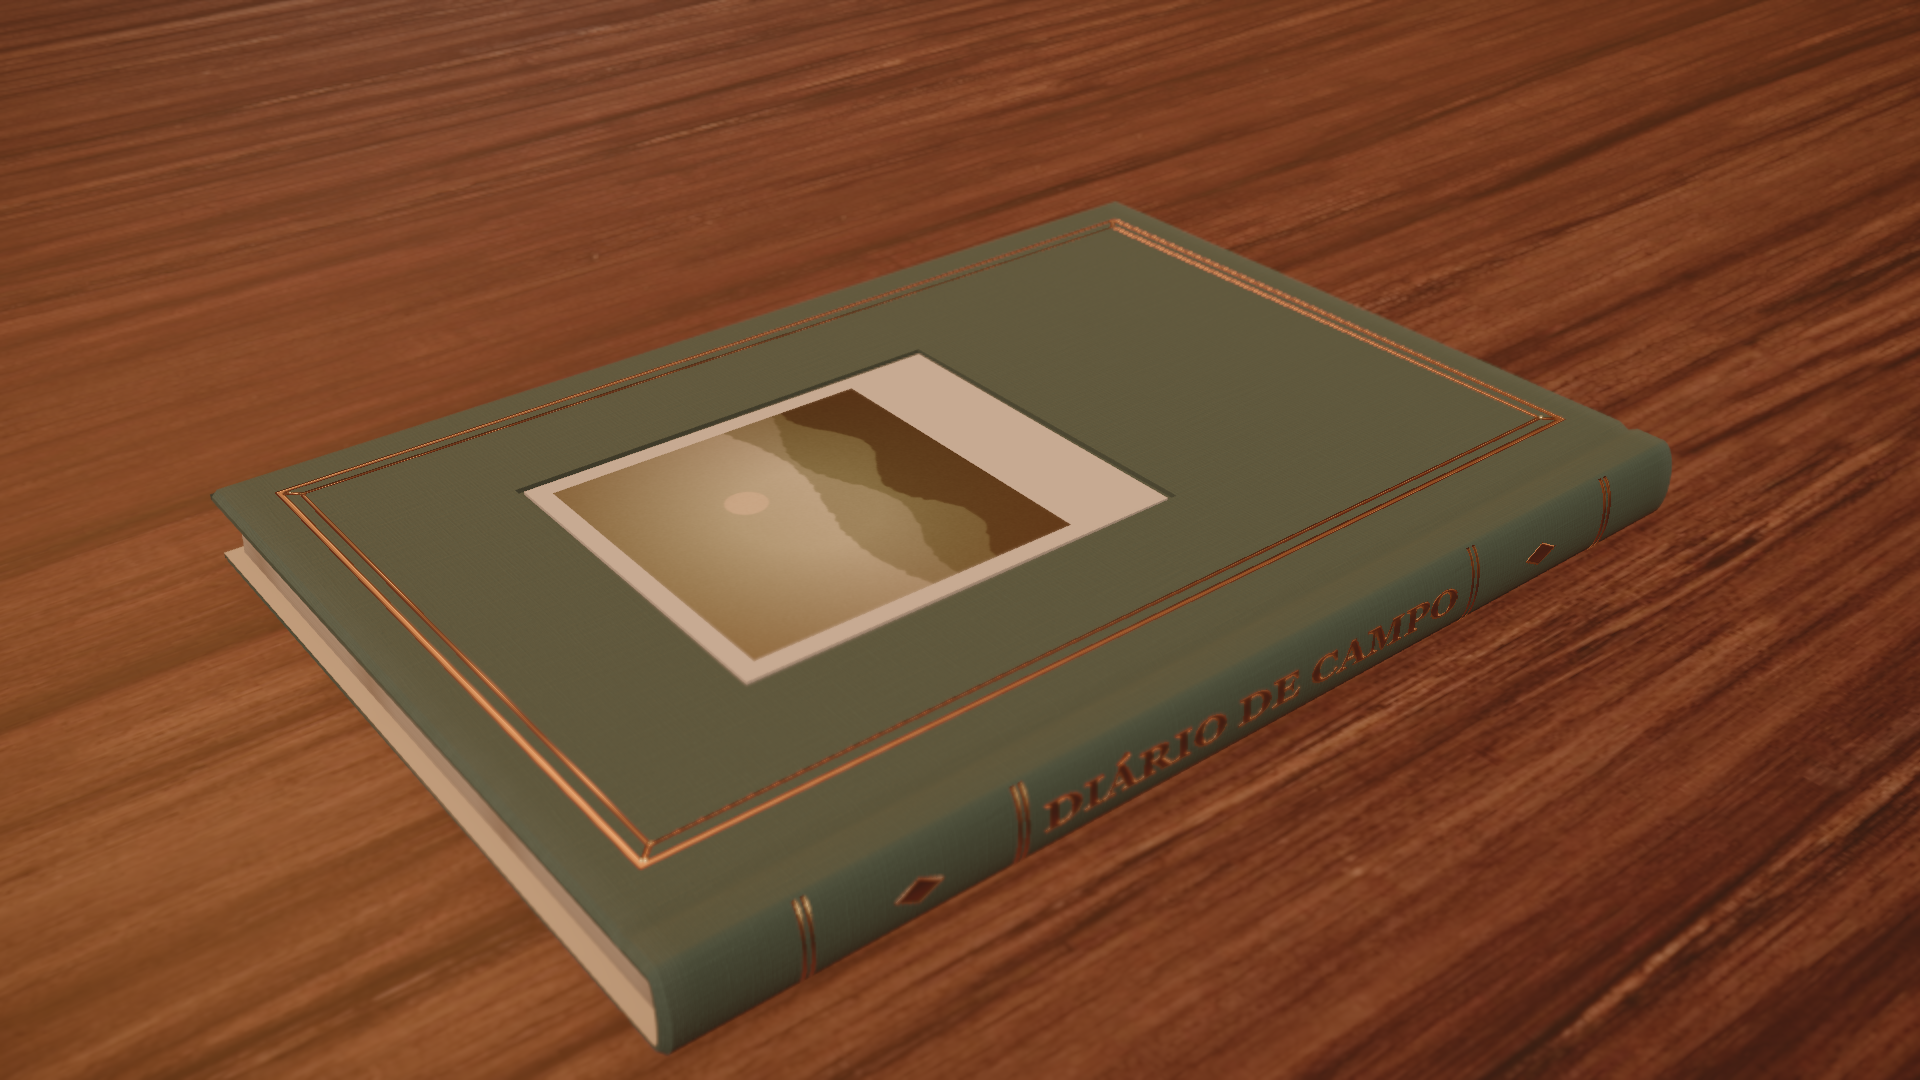
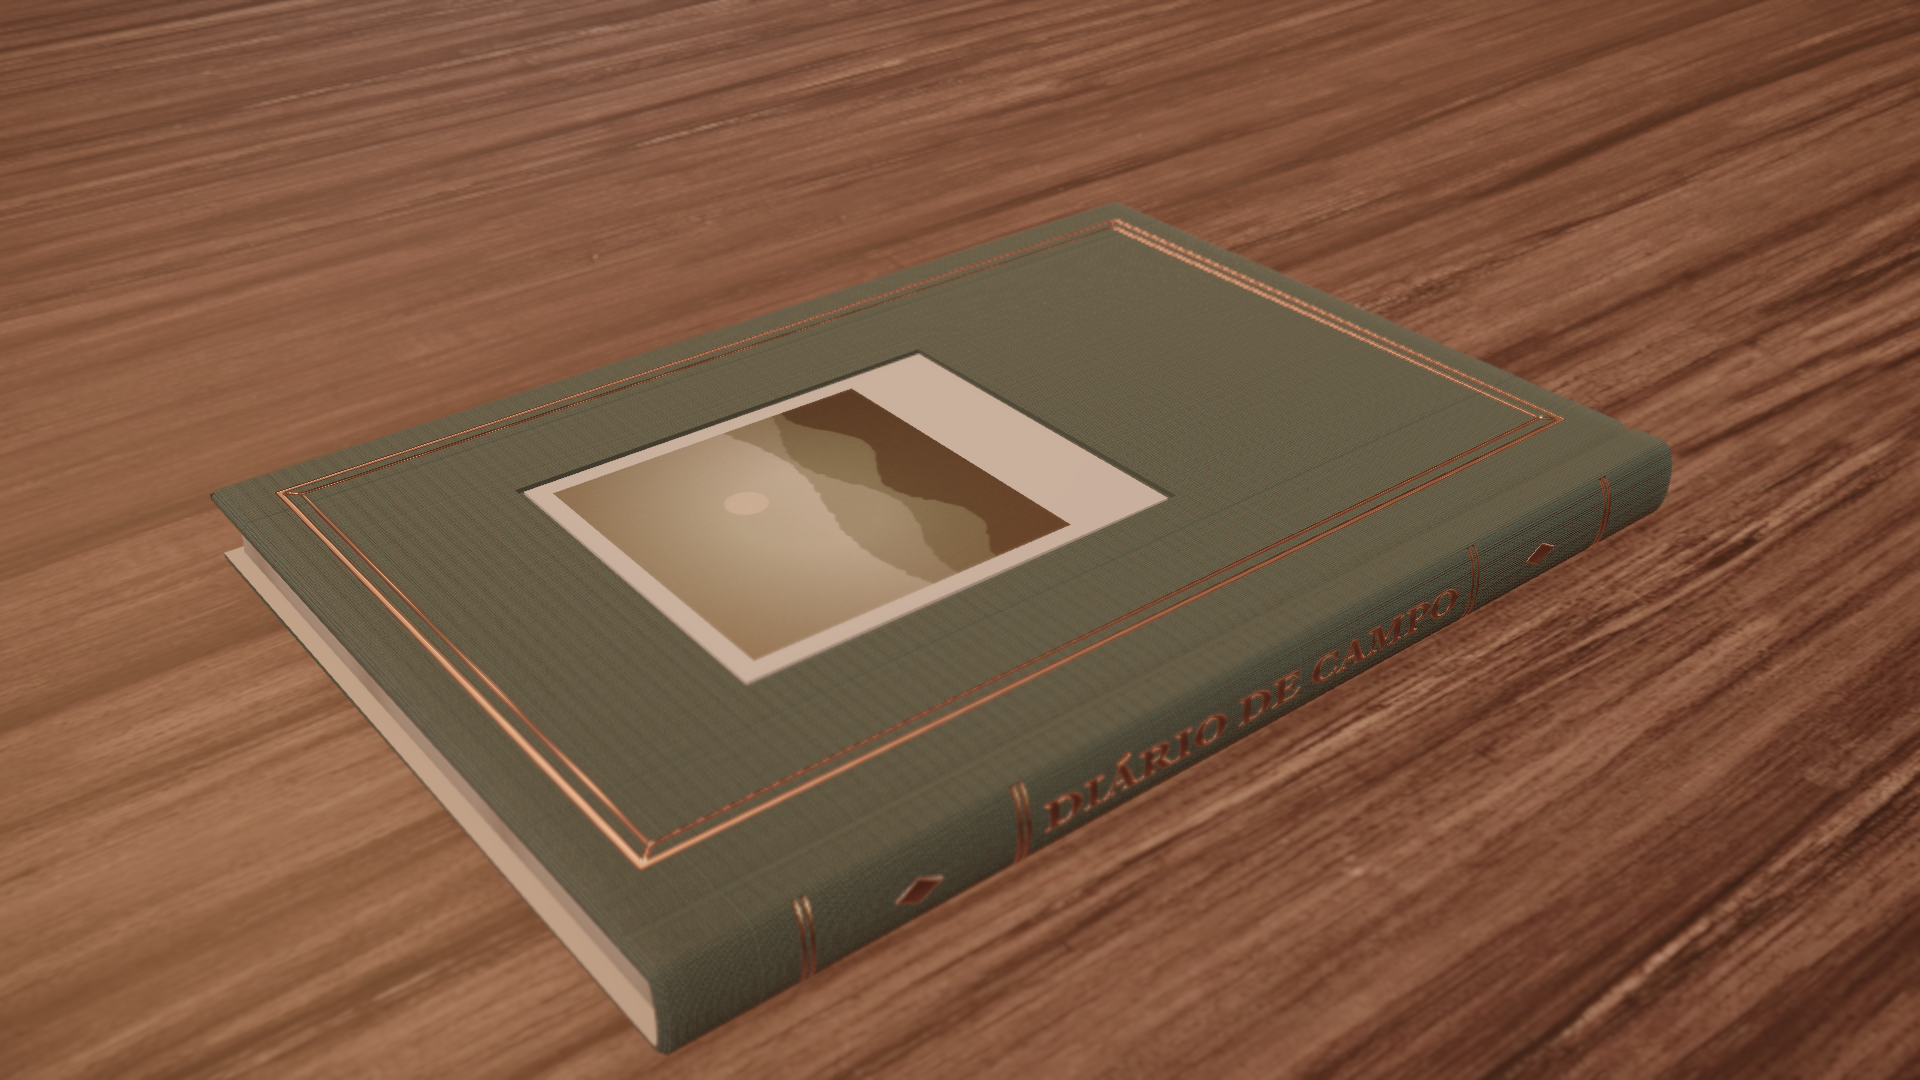
livro: trama de tecido procedural; lustre com velas quentes; lint

diff --git a/src/book/Book.tsx b/src/book/Book.tsx
@@ -2,6 +2,7 @@ import { useTexture } from '@react-three/drei'
 import { useEffect, useMemo, useState } from 'react'
 import { Vector2, type Texture } from 'three'
 import {
+  clothWeaveHeight,
   frontFoilMask,
   maskTexture,
   normalFromMask,
@@ -42,28 +43,26 @@ const TEX = '/textures/book'
 
 /** Photo for the polaroid: the user's Blob, or a generated sample for the fixtures. */
 function usePhoto(book: BookProps['book']): Texture | null {
-  const [tex, setTex] = useState<Texture | null>(null)
+  // generated sample photos are synchronous; a user's Blob is decoded asynchronously
+  const sample = useMemo(() => (book.photoSeed !== undefined && !book.coverPhoto ? photoTexture(samplePhoto(book.photoSeed)) : null), [book.photoSeed, book.coverPhoto])
+  const [decoded, setDecoded] = useState<Texture | null>(null)
   useEffect(() => {
+    if (!book.coverPhoto) return
     let alive = true
     let made: Texture | null = null
-    if (book.coverPhoto) {
-      void createImageBitmap(book.coverPhoto).then((bmp) => {
-        if (!alive) return
-        made = photoTexture(bmp)
-        setTex(made)
-      })
-    } else if (book.photoSeed !== undefined) {
-      made = photoTexture(samplePhoto(book.photoSeed))
-      setTex(made)
-    } else {
-      setTex(null)
-    }
+    void createImageBitmap(book.coverPhoto).then((bmp) => {
+      if (!alive) return
+      made = photoTexture(bmp)
+      setDecoded(made)
+    })
     return () => {
       alive = false
       made?.dispose()
+      setDecoded(null)
     }
-  }, [book.coverPhoto, book.photoSeed])
-  return tex
+  }, [book.coverPhoto])
+  useEffect(() => () => sample?.dispose(), [sample])
+  return book.coverPhoto ? decoded : sample
 }
 
 /**
@@ -103,7 +102,14 @@ export function Book({ book, position = [0, 0, 0], rotation = [0, 0, 0] }: BookP
     const edge = pageEdgeTexture()
     edge.repeat.set(1, 1)
     return {
-      cover: coverMaterial(book.coverMaterial, book.color, { lum, normal, arm }, wear, new Vector2(1 / maxU, 1 / d.coverHeight)),
+      cover: coverMaterial(
+        book.coverMaterial,
+        book.color,
+        { lum, normal, arm },
+        wear,
+        new Vector2(1 / maxU, 1 / d.coverHeight),
+        book.coverMaterial === 'cloth' ? normalFromMask(clothWeaveHeight(0.11), 1.5) : undefined,
+      ),
       endpaper: endpaperMaterial(paper),
       pageEdge: pageEdgeMaterial(edge),
       pageSide: pageSideMaterial(paper),

diff --git a/src/book/canvasTextures.ts b/src/book/canvasTextures.ts
@@ -118,6 +118,40 @@ export function frontFoilMask(widthM: number, heightM: number): HTMLCanvasElemen
   return c
 }
 
+/**
+ * Bookcloth (buckram) weave as a height map: over/under threads of ~0.4 mm across a tile of `tileM` meters,
+ * with slight irregularity. Returns the height canvas; normalFromMask turns it into a normal map.
+ */
+export function clothWeaveHeight(tileM: number, seed = 5): HTMLCanvasElement {
+  const N = 1024
+  const threads = Math.round(tileM / 0.0004)
+  const { c, ctx } = canvas(N, N)
+  const img = ctx.createImageData(N, N)
+  const r = rand(seed)
+  const jitterX = Array.from({ length: threads }, () => 0.85 + r() * 0.3)
+  const jitterY = Array.from({ length: threads }, () => 0.85 + r() * 0.3)
+  for (let y = 0; y < N; y++) {
+    for (let x = 0; x < N; x++) {
+      const u = (x / N) * threads
+      const v = (y / N) * threads
+      const iu = Math.floor(u)
+      const iv = Math.floor(v)
+      const fu = u - iu
+      const fv = v - iv
+      // warp over weft on a checkerboard, each thread a rounded ridge
+      const overWarp = (iu + iv) % 2 === 0
+      const warp = Math.sin(Math.PI * fu) * jitterX[iu % threads]
+      const weft = Math.sin(Math.PI * fv) * jitterY[iv % threads]
+      const h = overWarp ? 0.55 * warp + 0.45 * warp * weft : 0.55 * weft + 0.45 * warp * weft
+      const i = (y * N + x) * 4
+      img.data[i] = img.data[i + 1] = img.data[i + 2] = 255
+      img.data[i + 3] = Math.round(Math.min(1, Math.max(0, h)) * 255)
+    }
+  }
+  ctx.putImageData(img, 0, 0)
+  return c
+}
+
 export function maskTexture(mask: HTMLCanvasElement): Texture {
   return texture(mask, false)
 }

diff --git a/src/scene/RoomExtras.tsx b/src/scene/RoomExtras.tsx
@@ -1,5 +1,5 @@
 import { useLayoutEffect } from 'react'
-import { Color, MeshBasicMaterial, MeshPhysicalMaterial, type Mesh, type Texture } from 'three'
+import { Color, MeshBasicMaterial, MeshPhysicalMaterial, type Mesh, type Object3D, type Texture } from 'three'
 import { room } from '../config/room'
 
 const matName = (m: Mesh) => (Array.isArray(m.material) ? m.material[0]?.name : m.material?.name) ?? ''
@@ -40,6 +40,19 @@ export function WindowGlass({ meshes, envMap }: { meshes: Mesh[]; envMap: Textur
     }
     return () => mat.dispose()
   }, [meshes, envMap])
+  return null
+}
+
+/** The chandelier's candle bulbs (Chandelier_03 glass): lit, warm emitters instead of sky-reflecting glass. */
+export function CandleBulbs({ root }: { root: Object3D }) {
+  useLayoutEffect(() => {
+    const mat = new MeshBasicMaterial({ color: new Color(room.lighting.chandelier.colorHex).lerp(new Color('#ffffff'), 0.35).multiplyScalar(2.4) })
+    root.traverse((o) => {
+      const m = o as Mesh
+      if (m.isMesh && /^Chandelier_03_glass/i.test(matName(m))) m.material = mat
+    })
+    return () => mat.dispose()
+  }, [root])
   return null
 }
 

diff --git a/src/book/BookDevScene.tsx b/src/book/BookDevScene.tsx
@@ -2,7 +2,7 @@ import { OrbitControls, useTexture } from '@react-three/drei'
 import { Canvas, useThree } from '@react-three/fiber'
 import { Bloom, DepthOfField, EffectComposer, N8AO, ToneMapping, Vignette } from '@react-three/postprocessing'
 import { ToneMappingMode } from 'postprocessing'
-import { lazy, Suspense, use, useLayoutEffect, useMemo, useState } from 'react'
+import { lazy, Suspense, use, useLayoutEffect, useState } from 'react'
 import { EquirectangularReflectionMapping, NoToneMapping, PMREMGenerator, RepeatWrapping, SRGBColorSpace, type Texture } from 'three'
 import { HDRLoader } from 'three/examples/jsm/loaders/HDRLoader.js'
 import { params } from '../app/params'
@@ -56,7 +56,7 @@ function Environment() {
 
 function Table() {
   const [map, normalMap, arm] = useTexture(['/textures/book/table_color.jpg', '/textures/book/table_normal.jpg', '/textures/book/table_arm.jpg'])
-  useMemo(() => {
+  useLayoutEffect(() => {
     for (const t of [map, normalMap, arm]) {
       t.wrapS = t.wrapT = RepeatWrapping
       t.repeat.set(3.2, 2.2)

diff --git a/src/book/materials.ts b/src/book/materials.ts
@@ -41,6 +41,7 @@ export function coverMaterial(
   tex: CoverTextures,
   wear: Texture,
   wearScale: Vector2,
+  weaveNormal?: Texture,
 ): MeshPhysicalMaterial {
   const tile = TILE[kind]
   const mat = new MeshPhysicalMaterial({
@@ -61,6 +62,11 @@ export function coverMaterial(
     mat.sheenRoughness = 0.7
     mat.sheenColor = new Color(SPINE_COLORS[color]).multiplyScalar(1.6)
     mat.normalScale.set(1.2, 1.2)
+    if (weaveNormal) {
+      // real bookcloth weave (procedural) instead of the curtain linen's coarse normal
+      mat.normalMap = prepare(weaveNormal, tile)
+      mat.normalScale.set(0.9, 0.9)
+    }
   }
   mat.onBeforeCompile = (shader: WebGLProgramParametersWithUniforms) => {
     shader.uniforms.wearMap = { value: wear }

diff --git a/src/scene/Room.tsx b/src/scene/Room.tsx
@@ -9,7 +9,7 @@ import { applyLightmaps, loadAtlasTexture, loadManifest, type LightmapManifest }
 import { PlaceholderRoom } from './PlaceholderRoom'
 import { FloorReflection } from './FloorReflection'
 import { invalidateShadows } from './shadows'
-import { FloorJoints, Flames, WindowGlass } from './RoomExtras'
+import { CandleBulbs, FloorJoints, Flames, WindowGlass } from './RoomExtras'
 
 interface RoomAssets {
   manifest: LightmapManifest
@@ -73,6 +73,7 @@ function BakedRoom({ assets }: { assets: RoomAssets }) {
       <WindowGlass meshes={unbaked} envMap={envMap} />
       <Flames meshes={unbaked} />
       <FloorJoints meshes={unbaked} />
+      <CandleBulbs root={room} />
       {reflect && <FloorReflection root={room} />}
     </>
   )

diff --git a/docs/noite/relatorio.md b/docs/noite/relatorio.md
@@ -1,0 +1,62 @@
+# Relatório da noite 01 — 15/10/2026
+
+Início: 00:02 (relógio da máquina). Branch `noite-01`, sem push.
+
+## Resumo
+
+1. **Pipeline completo e automático:** Blender 5.2 (GPU OptiX, RTX 4060) monta a sala, a estante, os props e as cortinas (simulação de tecido), assa os lightmaps, faz o denoise, exporta e otimiza para o navegador com um comando (`npm run pipeline -- --quality draft|final`, ~3 min em draft).
+2. **Sala no navegador:** lightmaps RGBM, reflexo planar borrado das janelas no piso, quadriculado do sol, feixes e poeira, props em PBR com sombra, AgX. Cerca de 105 draw calls no N0, dentro do orçamento.
+3. **Look dev:** 6 iterações em draft com o `art-reviewer` mais o bake final. Notas da última revisão estão abaixo. **A Fase 0 não está aprovada:** há candidatos prontos para a sua avaliação.
+4. **Navegação (Fase 1):** pronta e testada (5/5 e2e). Arrastar, roda, teclado, botões, marcadores no piso, tween de 1,4 s e `prefers-reduced-motion`.
+5. **Livro (Fase 2):** livro paramétrico em cena isolada (`?dev=book`) com 6 livros de teste e 15 testes unitários (geometria e layout da estante). O livro **não** entrou na sala, como manda o runbook.
+
+## Como ver
+
+```bash
+npm install
+```
+
+```bash
+npm run dev
+```
+
+- Sala: `http://localhost:5173/` (N0), `http://localhost:5173/?node=N1`, `http://localhost:5173/?node=N2`
+- Tier baixo: `http://localhost:5173/?quality=low`
+- Livro isolado (com painel `leva` em dev): `http://localhost:5173/?dev=book`
+- Depuração: `?debug=lightmap` mostra só os lightmaps; `?off=beams,reflect,effects` desliga partes.
+
+Os arquivos gerados (`public/models`, `public/lightmaps`, `public/env`, `public/textures`) ficam fora do git. Se faltarem:
+
+```bash
+npm run pipeline -- --quality final
+```
+
+Screenshots: `npm run shot` (sala) e `npm run shot -- --dev book` (livro).
+
+## Screenshots (`shots/latest/`)
+
+- `compare_N0.png`: referência × N0 lado a lado (frame de aprovação)
+- `N0.png`, `N0_approval.png`, `N1.png`, `N2.png` e `stats.json`
+- `book/book_48_bordo_couro.png`, `book/book_220_verde_tecido.png`, `book/book_640_couro_natural.png`
+- `assets_contact.png`: folha de contato dos assets
+- `blender_N0.png`, `blender_N2.png`: prévias do Cycles
+
+## Última avaliação do art-reviewer
+
+_(preenchido após o bake final)_
+
+## Orçamento
+
+_(preenchido após o bake final)_
+
+## Decisões que precisam de você
+
+_(preenchido após o bake final)_
+
+## Bloqueios e placeholders
+
+_(preenchido após o bake final)_
+
+## Próximos passos sugeridos
+
+_(preenchido após o bake final)_

diff --git a/docs/look-dev/iteracoes.md b/docs/look-dev/iteracoes.md
@@ -42,3 +42,6 @@ Cada entrada: data/hora, o que mudou, notas por critério (art-reviewer), diverg
 ### S6 — 2026-10-15 ~02:20 (draft → base do bake final)
 - Madeiras com saturação 0,4 e matiz ~26° (médias #5F432F estante, #6B4A34 lambri, #785236 piso); velas do lustre 9 → 14 W (preenchimento da frente da estante); reflexo do piso atenuado nos 50 cm junto às paredes e à base da estante (contato).
 - Próximo passo: bake `final` (512 amostras, resolução cheia) + shot + revisão.
+
+### L3 (livro) — 2026-10-15 ~02:30
+- Capa de tecido com trama de buckram procedural (~0,4 mm por fio) como normal map, no lugar do normal grosso do linho das cortinas. Lâmpadas-vela do lustre como emissores quentes (antes refletiam o céu e saíam azuladas).
